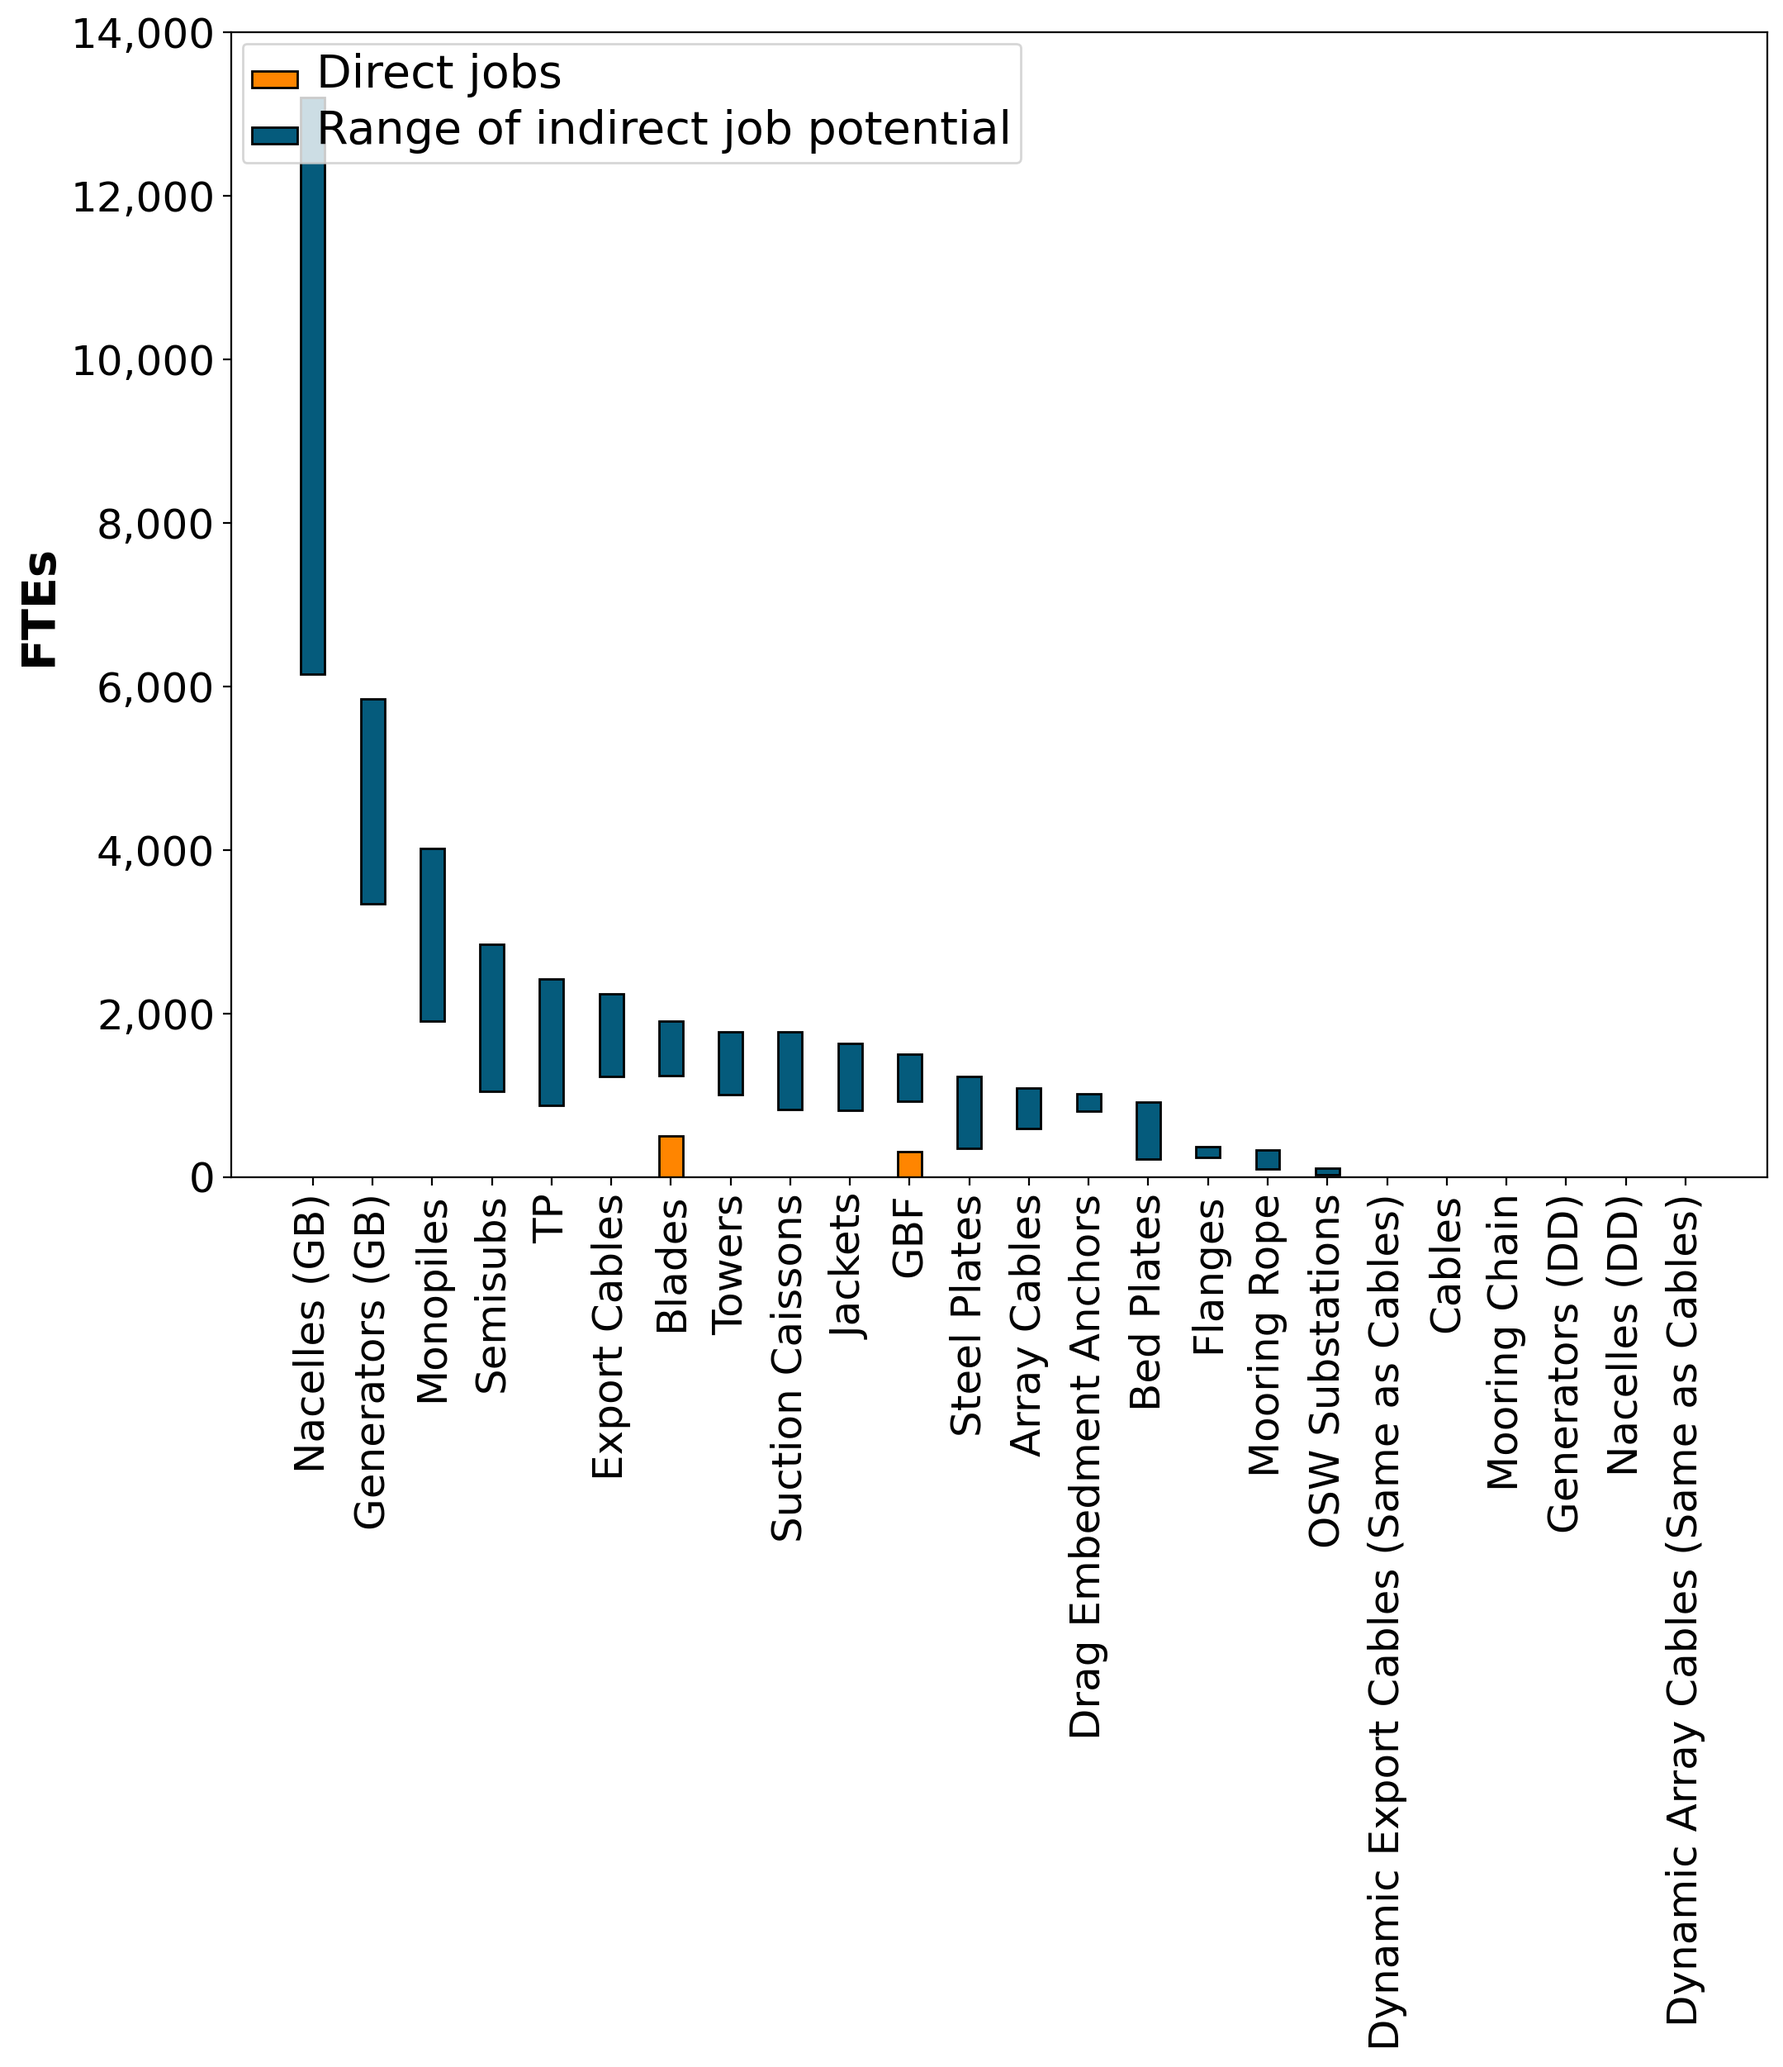
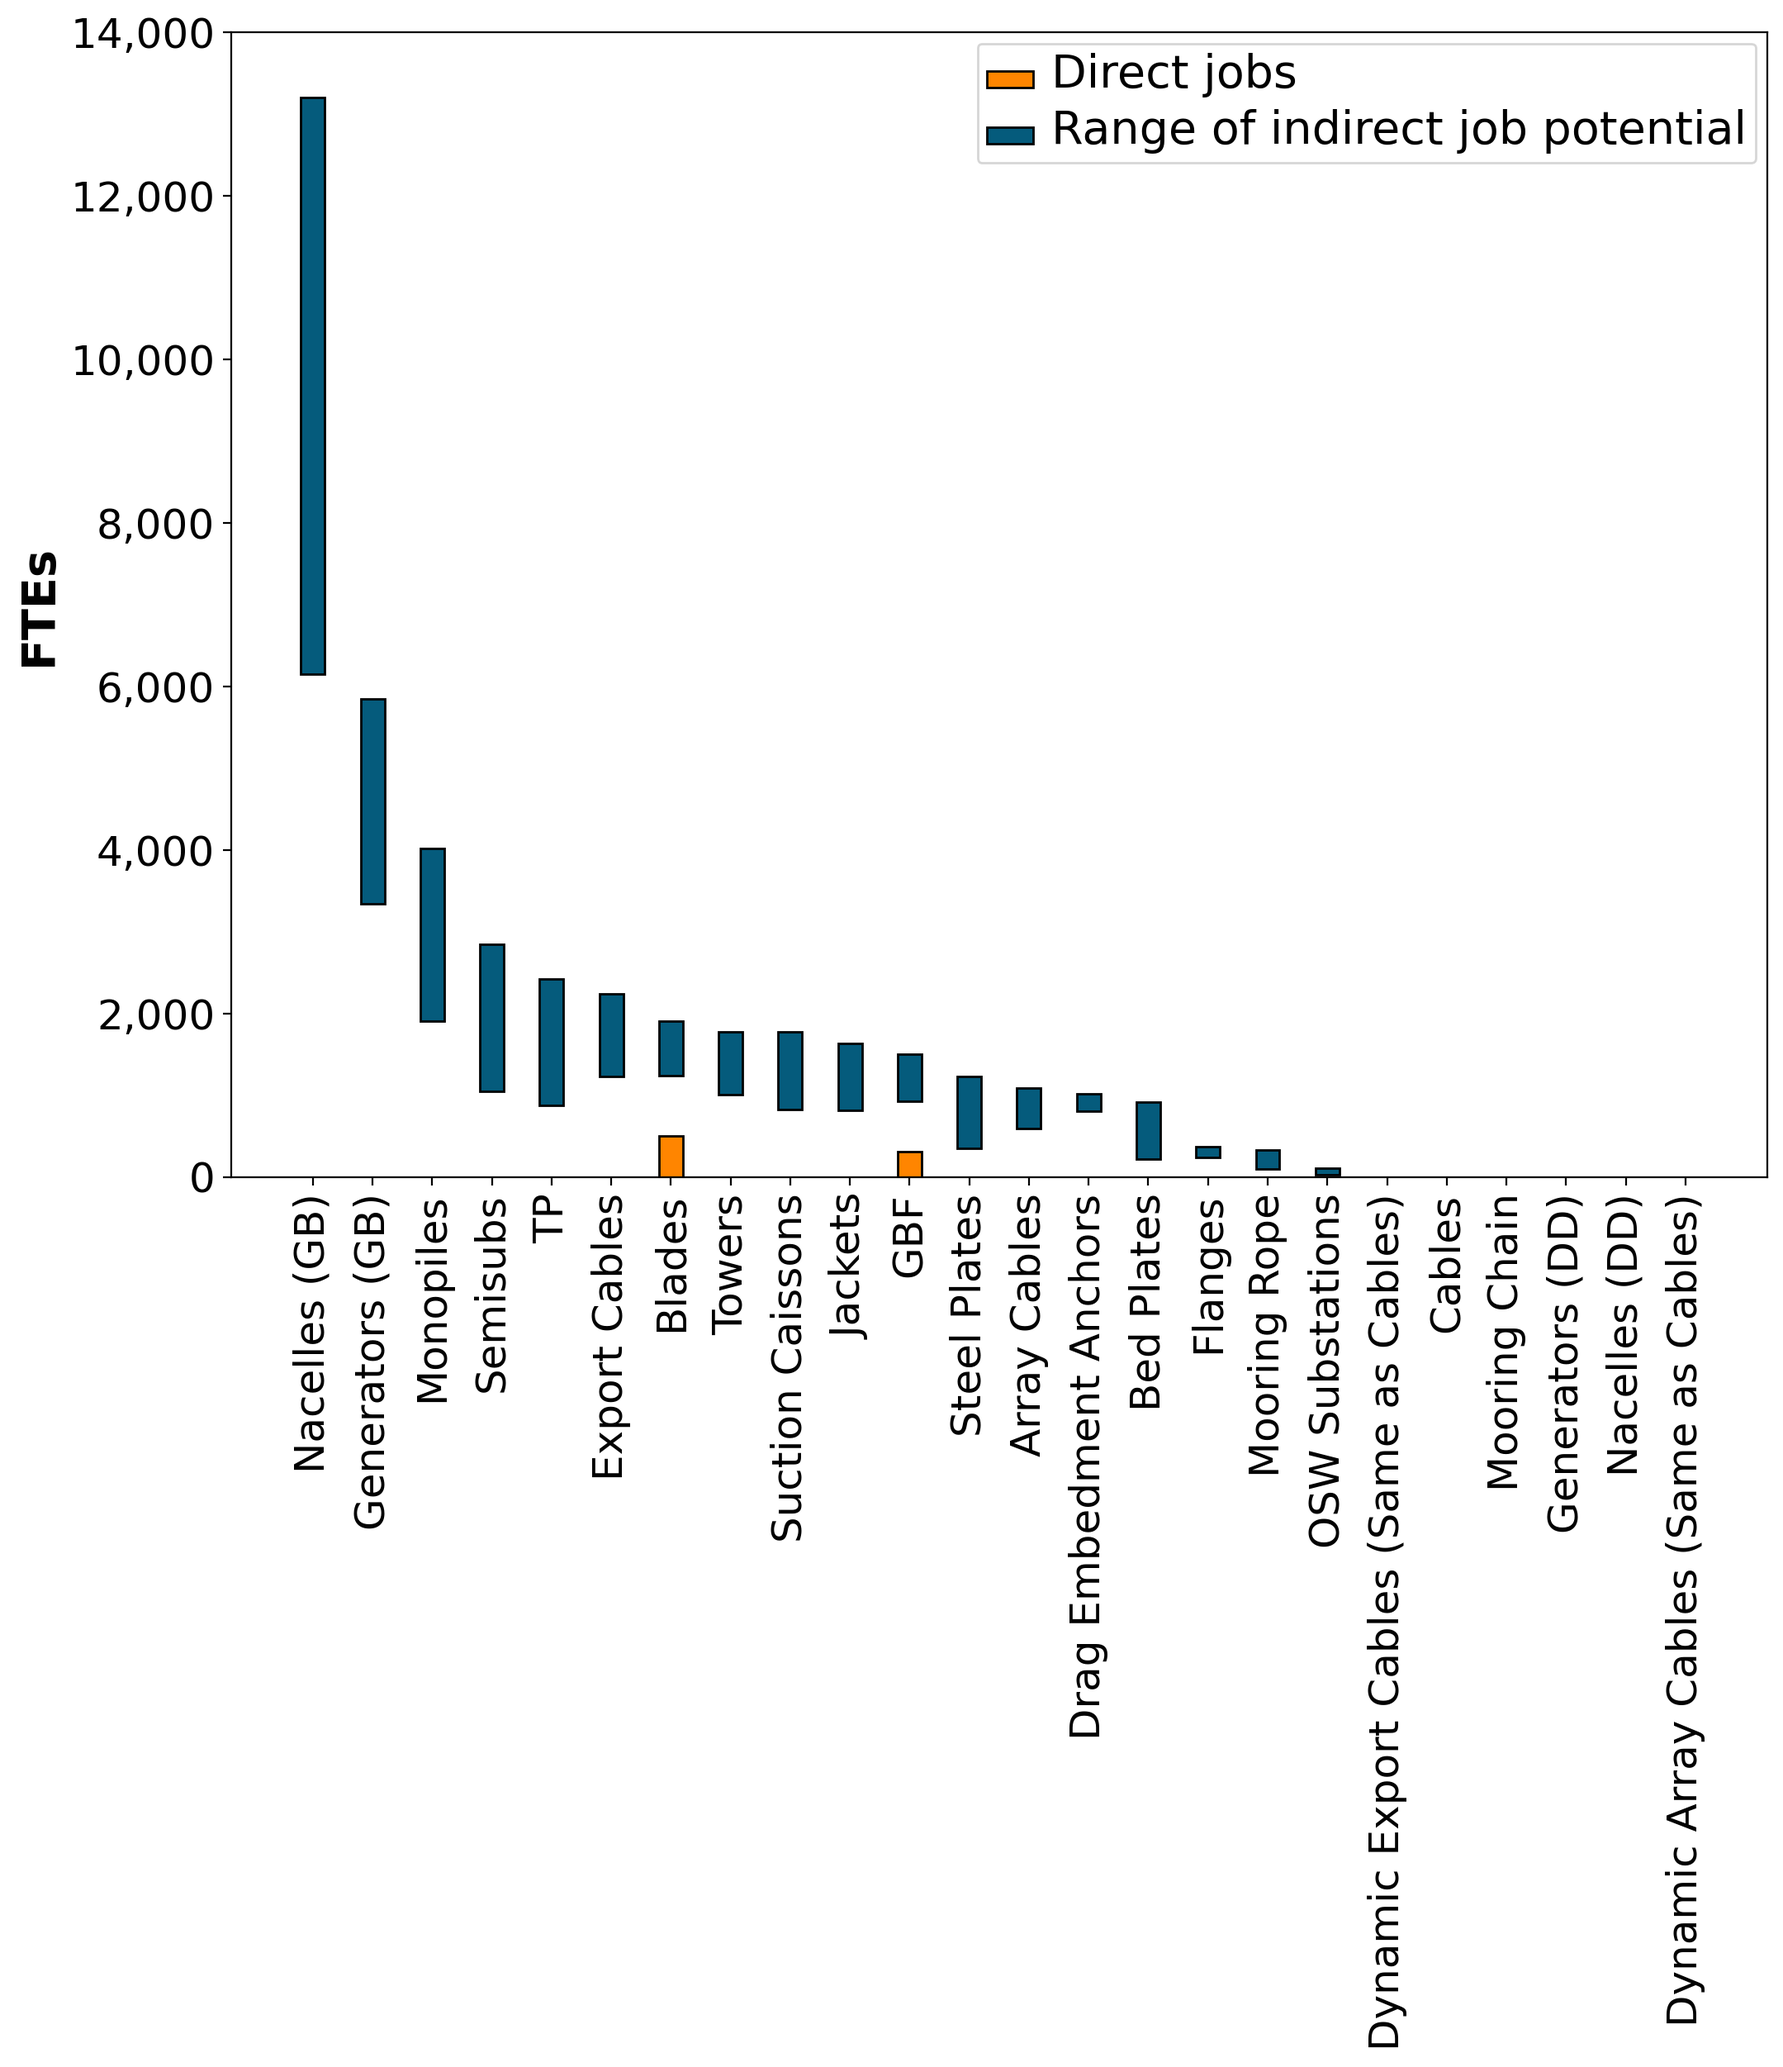
Update port/vessel investments per peer review

Changed region(s): [[0.1241, 0.0312, 0.9931, 0.0935]]

diff --git a/plot_routines.py b/plot_routines.py
@@ -279,7 +279,7 @@ def plot_cumulative(x, y1, y2, y3, y4, components, color_list, ylabel, fname=Non
     ax.plot(x, yPorts, 'w')
     # Add vessels
     yVessels = yPorts + y4
-    ax.fill_between(x, list(yPorts), list(yVessels), color=color_list['WTIV'], label='WTIVs and HLVs')
+    ax.fill_between(x, list(yPorts), list(yVessels), color=color_list['WTIV'], label='Installation vessels')
     ax.plot(x, yVessels, 'k')
 
     total_inv = pd.DataFrame({'Year': x, 'Investment': yVessels})
@@ -666,7 +666,7 @@ def plot_multi_bars(x, y1, y2, y2_bottom, y2_height, color_list, kwargs, fname=N
     ax.set_xticklabels(xsort[::-1], rotation=kwargs['rotation'])
     ax.set_ylabel(kwargs['ylabel'])
     ax.set_ylim(kwargs['ylim'])
-    ax.legend(loc='upper left')
+    ax.legend(loc='upper right')
     ax.get_yaxis().set_major_formatter(
         mpl.ticker.FuncFormatter(lambda x, p: format(int(x), ',')))
 

diff --git a/helpers.py b/helpers.py
@@ -37,8 +37,8 @@ job_breakdown = {'Design and engineering': .03,
 
 # Copy vessel/port investment schedule from CORAL/investment_schedule.CSV
 # TODO: make this dynamic
-ports_inv = np.cumsum([770, 0, 0, 0, 0, 387, 0, 860, 200, 0, 1400, 200, 200, 0])
-vessel_inv = np.cumsum([0, 500, 0, 0, 0, 500, 500, 1050, 1000, 0, 0, 0, 0, 0])
+ports_inv = np.cumsum([827, 0, 0, 0, 0, 387, 0, 850, 200, 0, 800, 0, 0, 0])
+vessel_inv = np.cumsum([0, 500, 0, 0, 0, 500, 2300, 0, 0, 0, 0, 0, 0, 0])
 
 
 ymax_plots = {'Monopile': 400,
